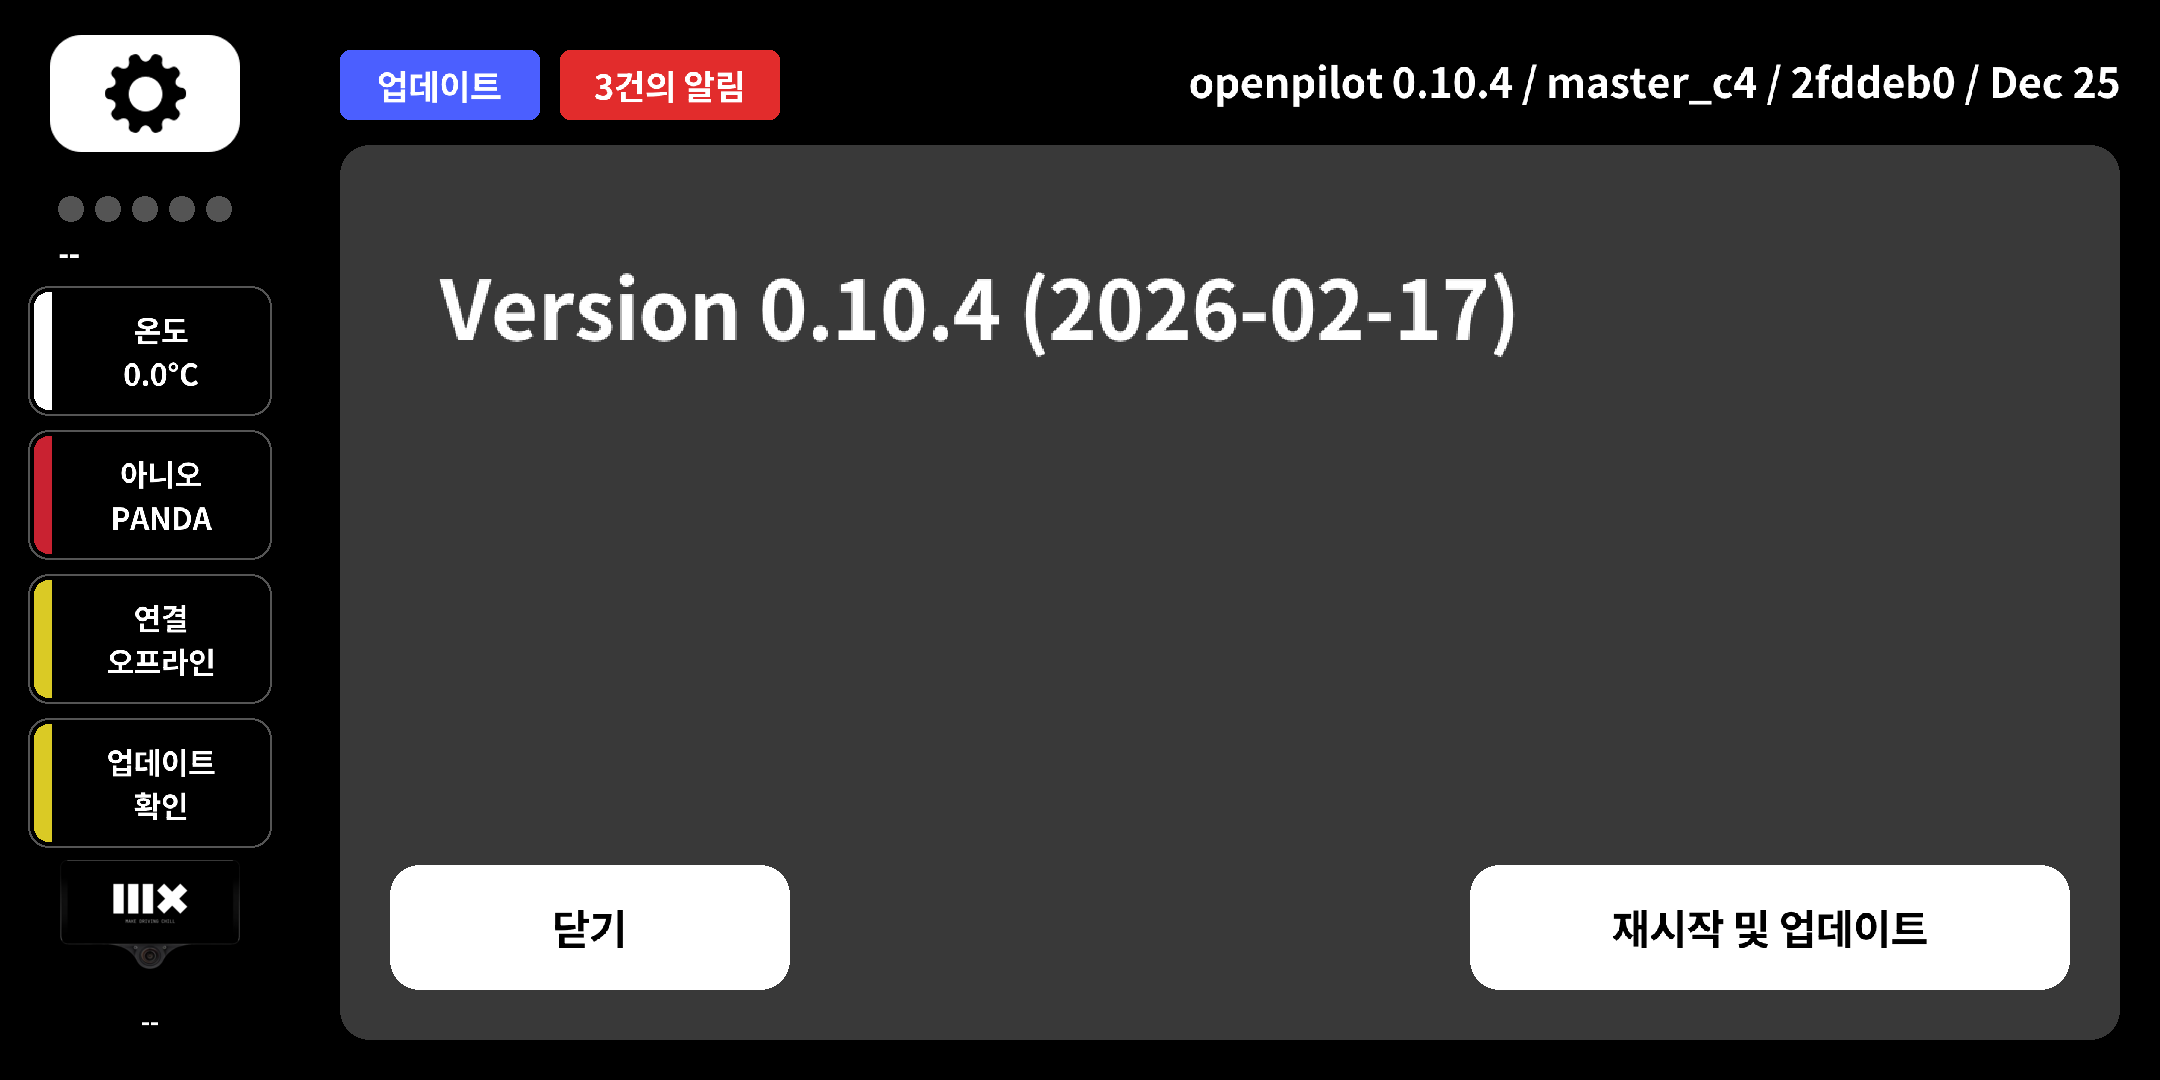
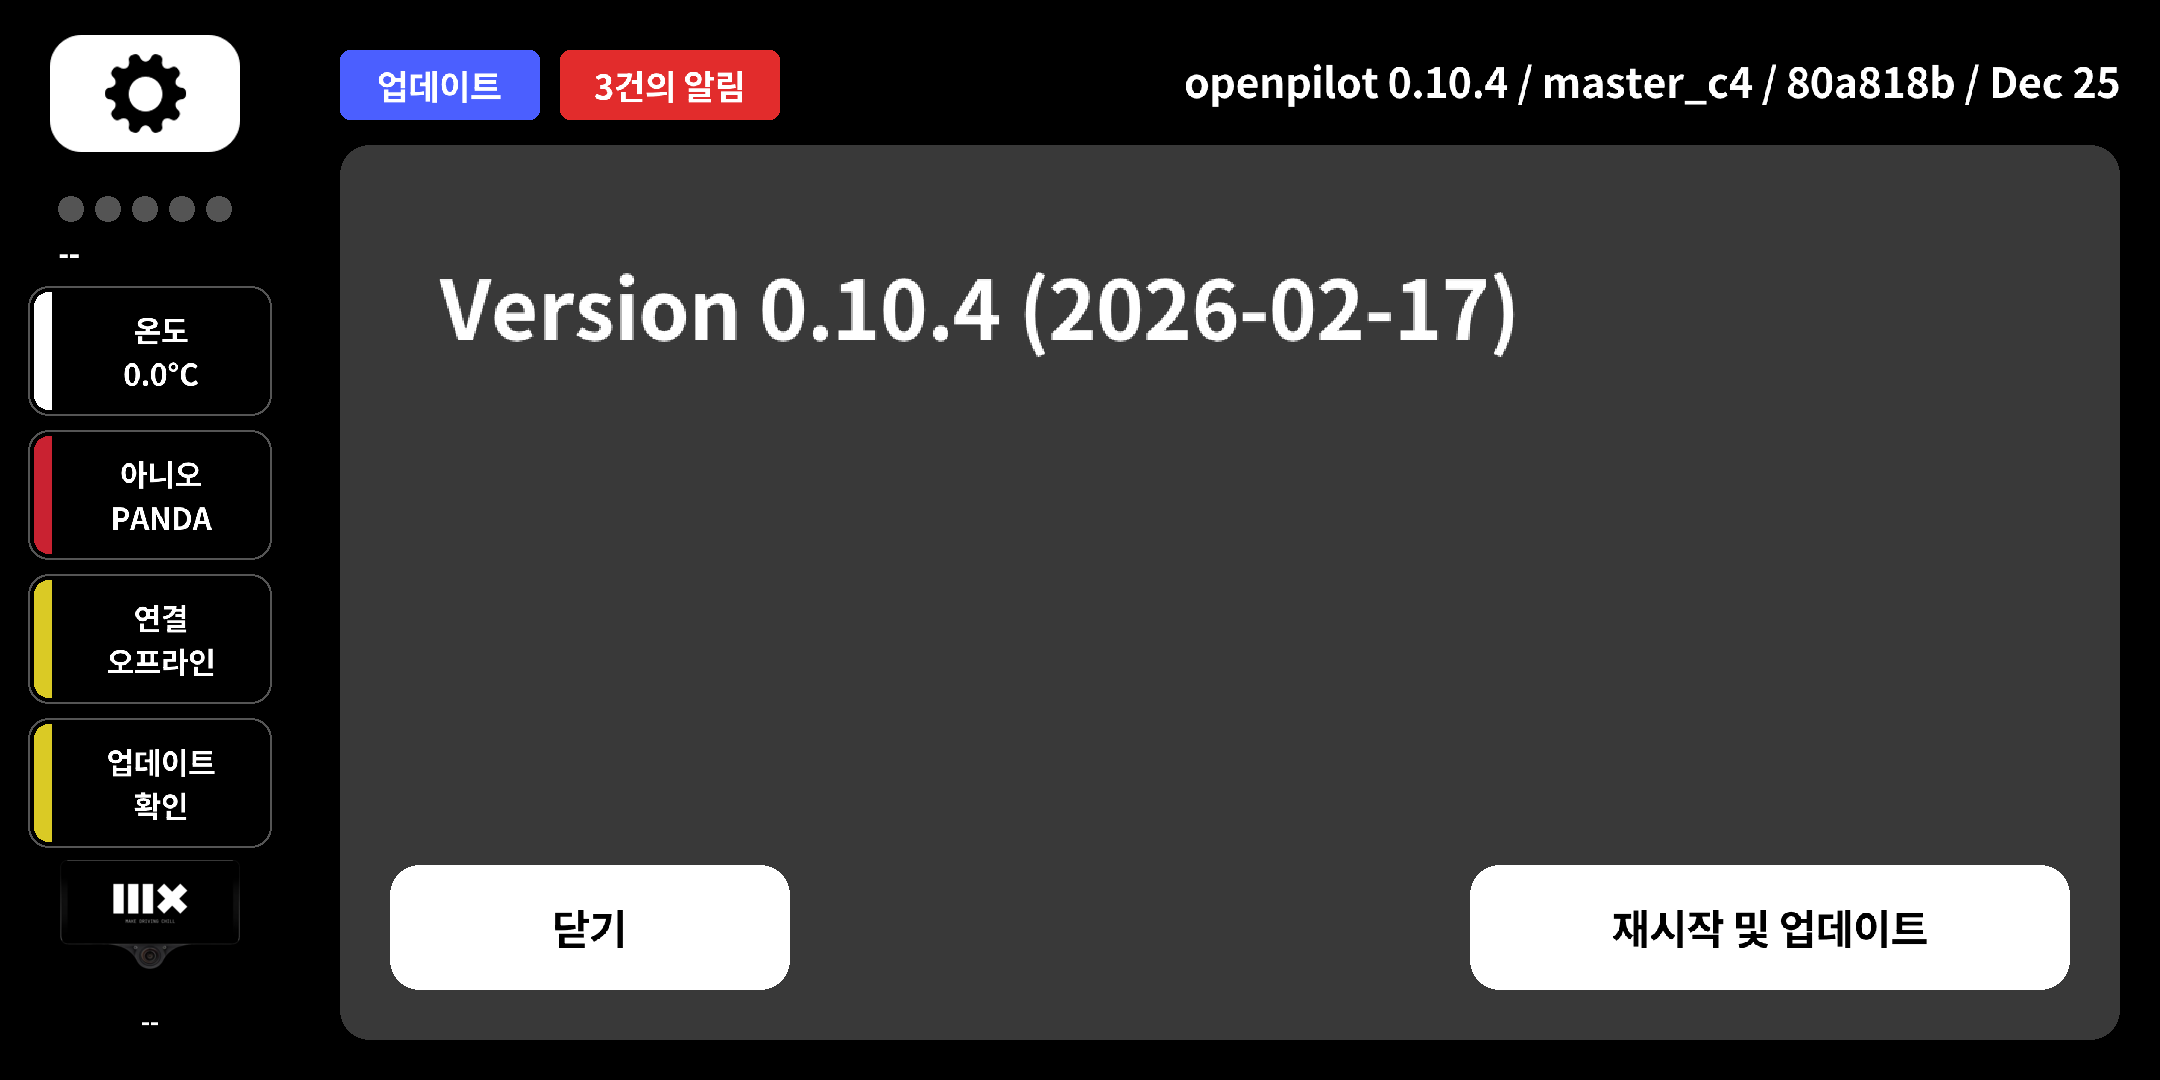
raylib screenshots for commit 80a818b on master_c4

Changed region(s): [[0.5273, 0.0611, 0.8995, 0.0917]]

diff --git a/README.md b/README.md
@@ -1,4 +1,4 @@
-# Raylib UI Screenshots: 2fddeb0
+# Raylib UI Screenshots: 80a818b
 This branch is automatically updated with raylib screenshots from the `master_c4` branch of `crwusiz/openpilot`.
 
 ## Latest Screenshots
@@ -47,6 +47,9 @@ This branch is automatically updated with raylib screenshots from the `master_c4
 ---
 ### mici_settings_device_page8.png
 ![mici_settings_device_page8.png](https://raw.githubusercontent.com/crwusiz/ci-artifacts/ui_preview_c4/mici_settings_device_page8.png)
+---
+### mici_settings_device_page9.png
+![mici_settings_device_page9.png](https://raw.githubusercontent.com/crwusiz/ci-artifacts/ui_preview_c4/mici_settings_device_page9.png)
 ---
 ### mici_settings_network_page1.png
 ![mici_settings_network_page1.png](https://raw.githubusercontent.com/crwusiz/ci-artifacts/ui_preview_c4/mici_settings_network_page1.png)
